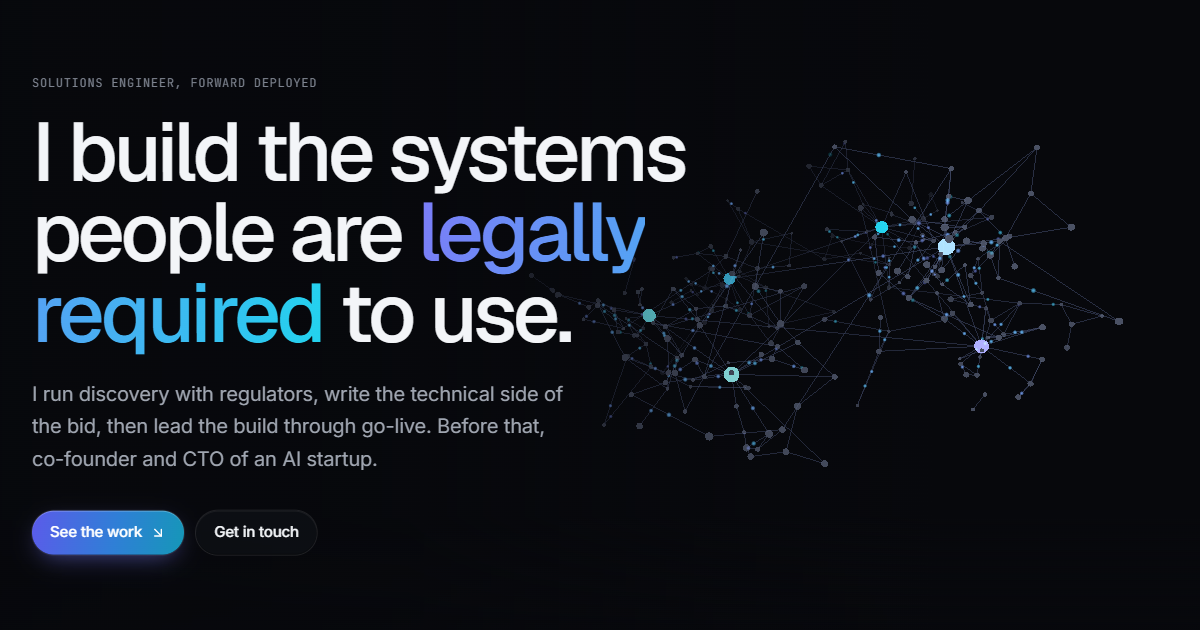
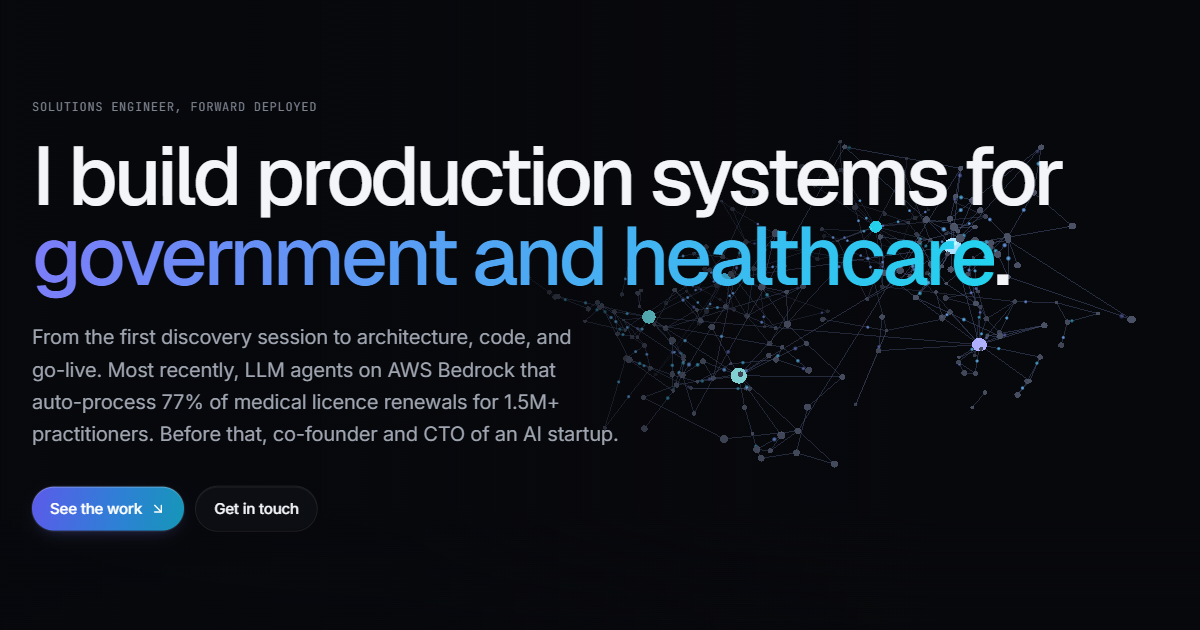
New hero headline and sub-line, updated social card

Changed region(s): [[0.0, 0.1206, 0.9558, 0.9048], [0.185, 0.7841, 0.2467, 0.8746], [0.6783, 0.7238, 0.7092, 0.754]]

diff --git a/index.html b/index.html
@@ -18,17 +18,17 @@
     <meta property="og:title" content="Sachin Singh, solutions engineer" />
     <meta
       property="og:description"
-      content="I build the systems people are legally required to use. Discovery, bids, and the build through go-live."
+      content="I build production systems for government and healthcare, from the first discovery session to go-live."
     />
     <meta property="og:image" content="https://sachinsingh018.github.io/og.png" />
     <meta property="og:image:width" content="1200" />
     <meta property="og:image:height" content="630" />
-    <meta property="og:image:alt" content="Sachin Singh. I build the systems people are legally required to use." />
+    <meta property="og:image:alt" content="Sachin Singh. I build production systems for government and healthcare." />
     <meta name="twitter:card" content="summary_large_image" />
     <meta name="twitter:title" content="Sachin Singh, solutions engineer" />
     <meta
       name="twitter:description"
-      content="I build the systems people are legally required to use. Discovery, bids, and the build through go-live."
+      content="I build production systems for government and healthcare, from the first discovery session to go-live."
     />
     <meta name="twitter:image" content="https://sachinsingh018.github.io/og.png" />
 

diff --git a/src/content/site.ts b/src/content/site.ts
@@ -100,8 +100,8 @@ export const nav: Link[] = [
 export const hero = {
   kicker: 'Solutions engineer, forward deployed',
   /** The middle part is rendered with the accent gradient. */
-  headline: { before: 'I build the systems people are ', accent: 'legally required', after: ' to use.' },
-  sub: 'I run discovery with regulators, write the technical side of the bid, then lead the build through go-live. Before that, co-founder and CTO of an AI startup.',
+  headline: { before: 'I build production systems for ', accent: 'government and healthcare', after: '.' },
+  sub: 'From the first discovery session to architecture, code, and go-live. Most recently, LLM agents on AWS Bedrock that auto-process 77% of medical licence renewals for 1.5M+ practitioners. Before that, co-founder and CTO of an AI startup.',
   primary: { label: 'See the work', href: '#work' },
   secondary: { label: 'Get in touch', href: '#contact' },
 }

diff --git a/src/components/Hero.tsx b/src/components/Hero.tsx
@@ -24,7 +24,7 @@ export function Hero() {
         </p>
         <h1
           id="hero-h"
-          className="display rise mt-5 max-w-[15ch] text-balance text-[clamp(2.6rem,1.1rem+5.4vw,6rem)]"
+          className="display rise mt-5 max-w-[19ch] text-balance text-[clamp(2.6rem,1.1rem+5.4vw,6rem)]"
           style={delay(100)}
         >
           {hero.headline.before}
@@ -32,7 +32,7 @@ export function Hero() {
           {hero.headline.after}
         </h1>
         <p
-          className="rise mt-6 max-w-[34rem] text-lg leading-relaxed text-muted md:text-xl"
+          className="rise mt-6 max-w-[38rem] text-lg leading-relaxed text-muted md:text-xl"
           style={delay(200)}
         >
           {keepHyphens(hero.sub)}
